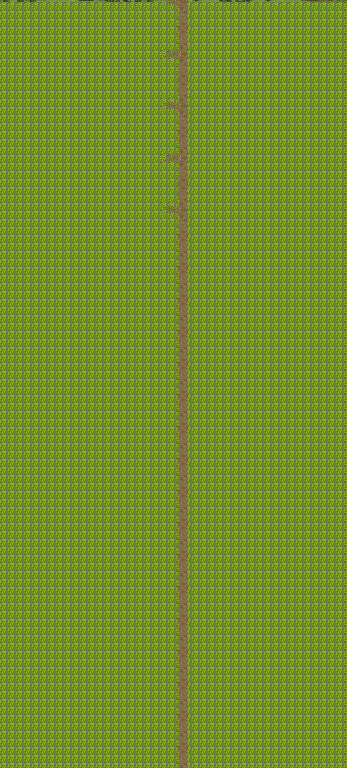
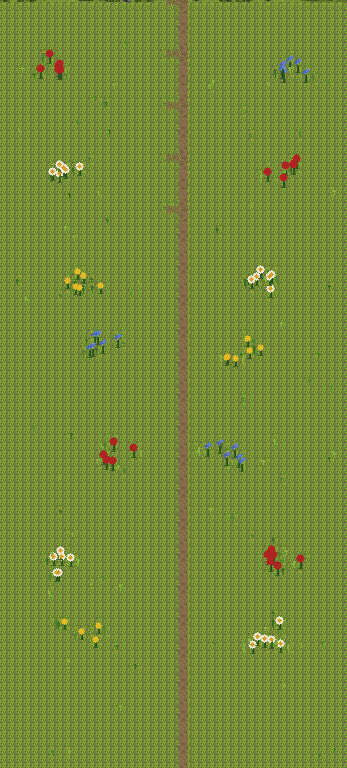
Scatter wildflowers and longer grass across the meadow.

diff --git a/src/game/assets.ts b/src/game/assets.ts
@@ -1,5 +1,5 @@
 /** Bump this when the pictures change so phones and computers drop the old files. */
-export const ART = "20260926u";
+export const ART = "20260926v";
 
 function art(path: string): string {
   return `${path}?v=${ART}`;
